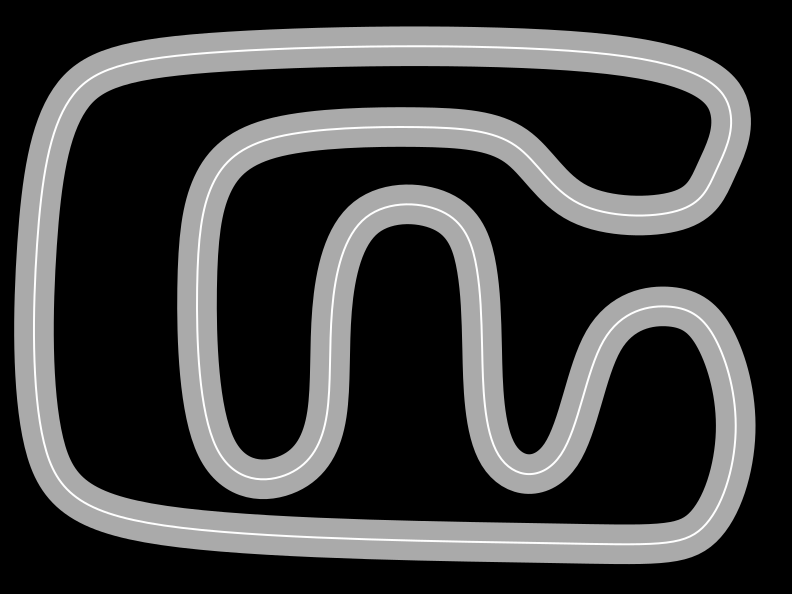
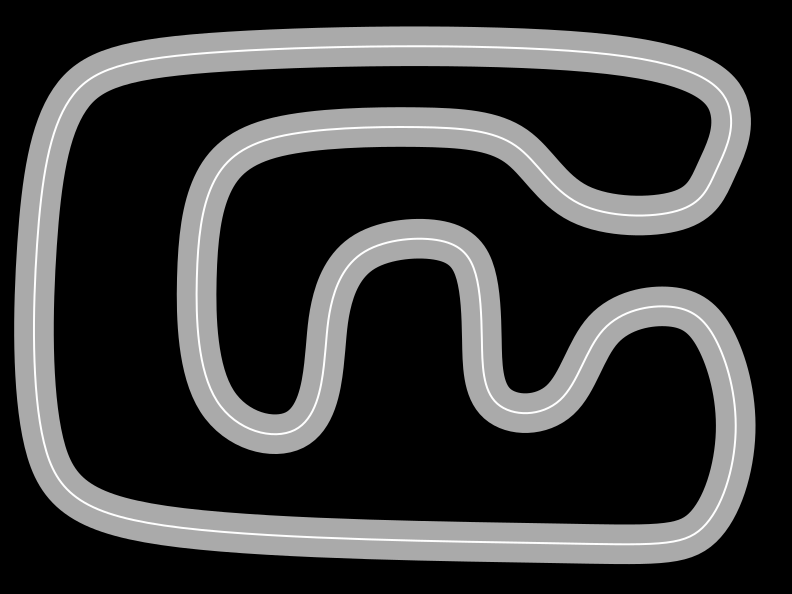
Circuit n°6.1

Changed region(s): [[0.2121, 0.303, 0.6364, 0.8485], [0.5758, 0.4848, 0.8182, 0.8485]]

diff --git a/circuit6.cpp b/circuit6.cpp
@@ -108,85 +108,73 @@ void initCicuit6(QList<CMarker>& mks) {
 	mks << CMarker(QPoint(240, 152), &CMarker::depasseGauche, &CMarker::depasseDroite);
 	mks << CMarker(QPoint(224, 166), &CMarker::depasseGauche, &CMarker::depasseDroite);
 	mks << CMarker(QPoint(213, 184), &CMarker::depasseBas, &CMarker::depasseHaut);
-	mks << CMarker(QPoint(206, 203), &CMarker::depasseBas, &CMarker::depasseHaut);
+	mks << CMarker(QPoint(205, 203), &CMarker::depasseBas, &CMarker::depasseHaut);
 	mks << CMarker(QPoint(201, 223), &CMarker::depasseBas, &CMarker::depasseHaut);
 	mks << CMarker(QPoint(199, 243), &CMarker::depasseBas, &CMarker::depasseHaut);
-	mks << CMarker(QPoint(198, 263), &CMarker::depasseBas, &CMarker::depasseHaut);
+	mks << CMarker(QPoint(197, 263), &CMarker::depasseBas, &CMarker::depasseHaut);
 	mks << CMarker(QPoint(197, 283), &CMarker::depasseBas, &CMarker::depasseHaut);
 	mks << CMarker(QPoint(197, 303), &CMarker::depasseBas, &CMarker::depasseHaut);
 	mks << CMarker(QPoint(197, 323), &CMarker::depasseBas, &CMarker::depasseHaut);
-	mks << CMarker(QPoint(198, 343), &CMarker::depasseBas, &CMarker::depasseHaut);
-	mks << CMarker(QPoint(199, 363), &CMarker::depasseBas, &CMarker::depasseHaut);
-	mks << CMarker(QPoint(201, 383), &CMarker::depasseBas, &CMarker::depasseHaut);
-	mks << CMarker(QPoint(204, 403), &CMarker::depasseBas, &CMarker::depasseHaut);
-	mks << CMarker(QPoint(208, 423), &CMarker::depasseBas, &CMarker::depasseHaut);
-	mks << CMarker(QPoint(214, 442), &CMarker::depasseBas, &CMarker::depasseHaut);
-	mks << CMarker(QPoint(224, 459), &CMarker::depasseBas, &CMarker::depasseHaut);
-	mks << CMarker(QPoint(239, 472), &CMarker::depasseDroite, &CMarker::depasseGauche);
-	mks << CMarker(QPoint(259, 478), &CMarker::depasseDroite, &CMarker::depasseGauche);
-	mks << CMarker(QPoint(279, 476), &CMarker::depasseDroite, &CMarker::depasseGauche);
-	mks << CMarker(QPoint(298, 467), &CMarker::depasseDroite, &CMarker::depasseGauche);
-	mks << CMarker(QPoint(313, 452), &CMarker::depasseDroite, &CMarker::depasseGauche);
-	mks << CMarker(QPoint(322, 433), &CMarker::depasseHaut, &CMarker::depasseBas);
-	mks << CMarker(QPoint(326, 412), &CMarker::depasseHaut, &CMarker::depasseBas);
-	mks << CMarker(QPoint(328, 391), &CMarker::depasseHaut, &CMarker::depasseBas);
-	mks << CMarker(QPoint(329, 370), &CMarker::depasseHaut, &CMarker::depasseBas);
-	mks << CMarker(QPoint(329, 349), &CMarker::depasseHaut, &CMarker::depasseBas);
-	mks << CMarker(QPoint(330, 328), &CMarker::depasseHaut, &CMarker::depasseBas);
-	mks << CMarker(QPoint(331, 307), &CMarker::depasseHaut, &CMarker::depasseBas);
-	mks << CMarker(QPoint(334, 286), &CMarker::depasseHaut, &CMarker::depasseBas);
-	mks << CMarker(QPoint(338, 265), &CMarker::depasseHaut, &CMarker::depasseBas);
-	mks << CMarker(QPoint(345, 245), &CMarker::depasseHaut, &CMarker::depasseBas);
-	mks << CMarker(QPoint(355, 227), &CMarker::depasseHaut, &CMarker::depasseBas);
-	mks << CMarker(QPoint(370, 213), &CMarker::depasseDroite, &CMarker::depasseGauche);
-	mks << CMarker(QPoint(389, 206), &CMarker::depasseDroite, &CMarker::depasseGauche);
-	mks << CMarker(QPoint(409, 204), &CMarker::depasseDroite, &CMarker::depasseGauche);
-	mks << CMarker(QPoint(429, 206), &CMarker::depasseDroite, &CMarker::depasseGauche);
-	mks << CMarker(QPoint(448, 214), &CMarker::depasseDroite, &CMarker::depasseGauche);
-	mks << CMarker(QPoint(463, 228), &CMarker::depasseDroite, &CMarker::depasseGauche);
-	mks << CMarker(QPoint(471, 247), &CMarker::depasseBas, &CMarker::depasseHaut);
-	mks << CMarker(QPoint(476, 267), &CMarker::depasseBas, &CMarker::depasseHaut);
-	mks << CMarker(QPoint(479, 287), &CMarker::depasseBas, &CMarker::depasseHaut);
-	mks << CMarker(QPoint(481, 307), &CMarker::depasseBas, &CMarker::depasseHaut);
-	mks << CMarker(QPoint(481, 327), &CMarker::depasseBas, &CMarker::depasseHaut);
-	mks << CMarker(QPoint(482, 347), &CMarker::depasseBas, &CMarker::depasseHaut);
-	mks << CMarker(QPoint(482, 367), &CMarker::depasseBas, &CMarker::depasseHaut);
-	mks << CMarker(QPoint(483, 387), &CMarker::depasseBas, &CMarker::depasseHaut);
-	mks << CMarker(QPoint(485, 407), &CMarker::depasseBas, &CMarker::depasseHaut);
-	mks << CMarker(QPoint(488, 427), &CMarker::depasseBas, &CMarker::depasseHaut);
-	mks << CMarker(QPoint(494, 446), &CMarker::depasseBas, &CMarker::depasseHaut);
-	mks << CMarker(QPoint(506, 463), &CMarker::depasseBas, &CMarker::depasseHaut);
-	mks << CMarker(QPoint(524, 473), &CMarker::depasseDroite, &CMarker::depasseGauche);
-	mks << CMarker(QPoint(544, 469), &CMarker::depasseDroite, &CMarker::depasseGauche);
-	mks << CMarker(QPoint(559, 455), &CMarker::depasseDroite, &CMarker::depasseGauche);
-	mks << CMarker(QPoint(569, 436), &CMarker::depasseHaut, &CMarker::depasseBas);
-	mks << CMarker(QPoint(576, 416), &CMarker::depasseHaut, &CMarker::depasseBas);
-	mks << CMarker(QPoint(582, 395), &CMarker::depasseHaut, &CMarker::depasseBas);
-	mks << CMarker(QPoint(588, 375), &CMarker::depasseHaut, &CMarker::depasseBas);
-	mks << CMarker(QPoint(596, 355), &CMarker::depasseHaut, &CMarker::depasseBas);
-	mks << CMarker(QPoint(605, 336), &CMarker::depasseHaut, &CMarker::depasseBas);
-	mks << CMarker(QPoint(619, 320), &CMarker::depasseHaut, &CMarker::depasseBas);
-	mks << CMarker(QPoint(637, 310), &CMarker::depasseDroite, &CMarker::depasseGauche);
-	mks << CMarker(QPoint(657, 306), &CMarker::depasseDroite, &CMarker::depasseGauche);
-	mks << CMarker(QPoint(677, 307), &CMarker::depasseDroite, &CMarker::depasseGauche);
-	mks << CMarker(QPoint(696, 315), &CMarker::depasseDroite, &CMarker::depasseGauche);
-	mks << CMarker(QPoint(710, 329), &CMarker::depasseDroite, &CMarker::depasseGauche);
-	mks << CMarker(QPoint(719, 347), &CMarker::depasseBas, &CMarker::depasseHaut);
-	mks << CMarker(QPoint(727, 366), &CMarker::depasseBas, &CMarker::depasseHaut);
-	mks << CMarker(QPoint(732, 386), &CMarker::depasseBas, &CMarker::depasseHaut);
-	mks << CMarker(QPoint(735, 406), &CMarker::depasseBas, &CMarker::depasseHaut);
-	mks << CMarker(QPoint(736, 426), &CMarker::depasseBas, &CMarker::depasseHaut);
-	mks << CMarker(QPoint(735, 446), &CMarker::depasseBas, &CMarker::depasseHaut);
-	mks << CMarker(QPoint(731, 466), &CMarker::depasseBas, &CMarker::depasseHaut);
-	mks << CMarker(QPoint(726, 486), &CMarker::depasseBas, &CMarker::depasseHaut);
-	mks << CMarker(QPoint(718, 505), &CMarker::depasseBas, &CMarker::depasseHaut);
-	mks << CMarker(QPoint(707, 523), &CMarker::depasseBas, &CMarker::depasseHaut);
-	mks << CMarker(QPoint(691, 536), &CMarker::depasseGauche, &CMarker::depasseDroite);
-	mks << CMarker(QPoint(671, 542), &CMarker::depasseGauche, &CMarker::depasseDroite);
-	mks << CMarker(QPoint(650, 544), &CMarker::depasseGauche, &CMarker::depasseDroite);
-	mks << CMarker(QPoint(629, 544), &CMarker::depasseGauche, &CMarker::depasseDroite);
-	mks << CMarker(QPoint(608, 544), &CMarker::depasseGauche, &CMarker::depasseDroite);
-	mks << CMarker(QPoint(587, 544), &CMarker::depasseGauche, &CMarker::depasseDroite);
-	mks << CMarker(QPoint(566, 543), &CMarker::depasseGauche, &CMarker::depasseDroite);
+	mks << CMarker(QPoint(199, 343), &CMarker::depasseBas, &CMarker::depasseHaut);
+	mks << CMarker(QPoint(203, 363), &CMarker::depasseBas, &CMarker::depasseHaut);
+	mks << CMarker(QPoint(208, 383), &CMarker::depasseBas, &CMarker::depasseHaut);
+	mks << CMarker(QPoint(217, 401), &CMarker::depasseBas, &CMarker::depasseHaut);
+	mks << CMarker(QPoint(231, 416), &CMarker::depasseBas, &CMarker::depasseHaut);
+	mks << CMarker(QPoint(248, 427), &CMarker::depasseDroite, &CMarker::depasseGauche);
+	mks << CMarker(QPoint(268, 433), &CMarker::depasseDroite, &CMarker::depasseGauche);
+	mks << CMarker(QPoint(288, 431), &CMarker::depasseDroite, &CMarker::depasseGauche);
+	mks << CMarker(QPoint(305, 420), &CMarker::depasseDroite, &CMarker::depasseGauche);
+	mks << CMarker(QPoint(315, 402), &CMarker::depasseHaut, &CMarker::depasseBas);
+	mks << CMarker(QPoint(321, 381), &CMarker::depasseHaut, &CMarker::depasseBas);
+	mks << CMarker(QPoint(323, 360), &CMarker::depasseHaut, &CMarker::depasseBas);
+	mks << CMarker(QPoint(325, 339), &CMarker::depasseHaut, &CMarker::depasseBas);
+	mks << CMarker(QPoint(328, 318), &CMarker::depasseHaut, &CMarker::depasseBas);
+	mks << CMarker(QPoint(332, 297), &CMarker::depasseHaut, &CMarker::depasseBas);
+	mks << CMarker(QPoint(340, 277), &CMarker::depasseHaut, &CMarker::depasseBas);
+	mks << CMarker(QPoint(352, 260), &CMarker::depasseHaut, &CMarker::depasseBas);
+	mks << CMarker(QPoint(369, 248), &CMarker::depasseDroite, &CMarker::depasseGauche);
+	mks << CMarker(QPoint(388, 241), &CMarker::depasseDroite, &CMarker::depasseGauche);
+	mks << CMarker(QPoint(408, 238), &CMarker::depasseDroite, &CMarker::depasseGauche);
+	mks << CMarker(QPoint(428, 238), &CMarker::depasseDroite, &CMarker::depasseGauche);
+	mks << CMarker(QPoint(448, 242), &CMarker::depasseDroite, &CMarker::depasseGauche);
+	mks << CMarker(QPoint(465, 253), &CMarker::depasseDroite, &CMarker::depasseGauche);
+	mks << CMarker(QPoint(475, 271), &CMarker::depasseBas, &CMarker::depasseHaut);
+	mks << CMarker(QPoint(479, 291), &CMarker::depasseBas, &CMarker::depasseHaut);
+	mks << CMarker(QPoint(481, 311), &CMarker::depasseBas, &CMarker::depasseHaut);
+	mks << CMarker(QPoint(482, 331), &CMarker::depasseBas, &CMarker::depasseHaut);
+	mks << CMarker(QPoint(482, 351), &CMarker::depasseBas, &CMarker::depasseHaut);
+	mks << CMarker(QPoint(483, 371), &CMarker::depasseBas, &CMarker::depasseHaut);
+	mks << CMarker(QPoint(489, 391), &CMarker::depasseBas, &CMarker::depasseHaut);
+	mks << CMarker(QPoint(502, 406), &CMarker::depasseBas, &CMarker::depasseHaut);
+	mks << CMarker(QPoint(522, 412), &CMarker::depasseDroite, &CMarker::depasseGauche);
+	mks << CMarker(QPoint(542, 409), &CMarker::depasseDroite, &CMarker::depasseGauche);
+	mks << CMarker(QPoint(560, 398), &CMarker::depasseDroite, &CMarker::depasseGauche);
+	mks << CMarker(QPoint(573, 381), &CMarker::depasseHaut, &CMarker::depasseBas);
+	mks << CMarker(QPoint(583, 362), &CMarker::depasseHaut, &CMarker::depasseBas);
+	mks << CMarker(QPoint(592, 343), &CMarker::depasseHaut, &CMarker::depasseBas);
+	mks << CMarker(QPoint(605, 326), &CMarker::depasseHaut, &CMarker::depasseBas);
+	mks << CMarker(QPoint(622, 314), &CMarker::depasseDroite, &CMarker::depasseGauche);
+	mks << CMarker(QPoint(642, 308), &CMarker::depasseDroite, &CMarker::depasseGauche);
+	mks << CMarker(QPoint(662, 305), &CMarker::depasseDroite, &CMarker::depasseGauche);
+	mks << CMarker(QPoint(682, 308), &CMarker::depasseDroite, &CMarker::depasseGauche);
+	mks << CMarker(QPoint(700, 318), &CMarker::depasseDroite, &CMarker::depasseGauche);
+	mks << CMarker(QPoint(713, 334), &CMarker::depasseBas, &CMarker::depasseHaut);
+	mks << CMarker(QPoint(722, 352), &CMarker::depasseBas, &CMarker::depasseHaut);
+	mks << CMarker(QPoint(728, 371), &CMarker::depasseBas, &CMarker::depasseHaut);
+	mks << CMarker(QPoint(733, 391), &CMarker::depasseBas, &CMarker::depasseHaut);
+	mks << CMarker(QPoint(735, 411), &CMarker::depasseBas, &CMarker::depasseHaut);
+	mks << CMarker(QPoint(736, 431), &CMarker::depasseBas, &CMarker::depasseHaut);
+	mks << CMarker(QPoint(734, 451), &CMarker::depasseBas, &CMarker::depasseHaut);
+	mks << CMarker(QPoint(730, 471), &CMarker::depasseBas, &CMarker::depasseHaut);
+	mks << CMarker(QPoint(724, 491), &CMarker::depasseBas, &CMarker::depasseHaut);
+	mks << CMarker(QPoint(716, 510), &CMarker::depasseBas, &CMarker::depasseHaut);
+	mks << CMarker(QPoint(703, 527), &CMarker::depasseBas, &CMarker::depasseHaut);
+	mks << CMarker(QPoint(685, 538), &CMarker::depasseGauche, &CMarker::depasseDroite);
+	mks << CMarker(QPoint(664, 543), &CMarker::depasseGauche, &CMarker::depasseDroite);
+	mks << CMarker(QPoint(643, 544), &CMarker::depasseGauche, &CMarker::depasseDroite);
+	mks << CMarker(QPoint(622, 544), &CMarker::depasseGauche, &CMarker::depasseDroite);
+	mks << CMarker(QPoint(601, 544), &CMarker::depasseGauche, &CMarker::depasseDroite);
+	mks << CMarker(QPoint(580, 544), &CMarker::depasseGauche, &CMarker::depasseDroite);
+	mks << CMarker(QPoint(559, 543), &CMarker::depasseGauche, &CMarker::depasseDroite);
 	mks << CMarker(QPoint(539, 543), &CMarker::depasseGauche, &CMarker::depasseDroite);
 }
